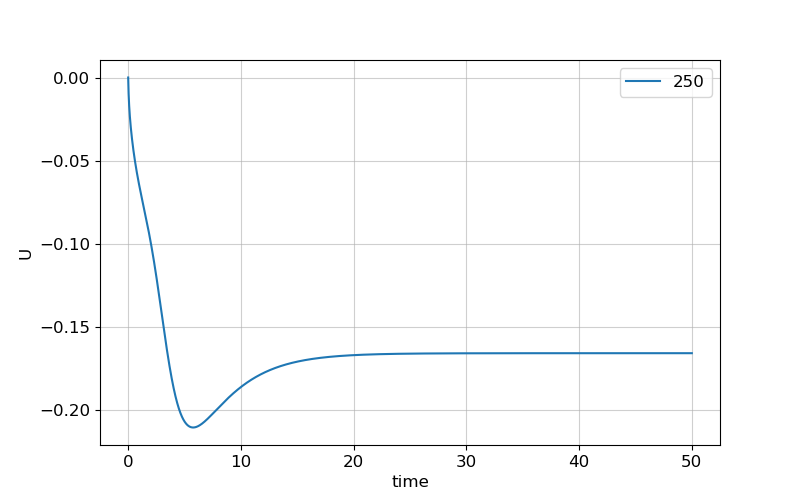
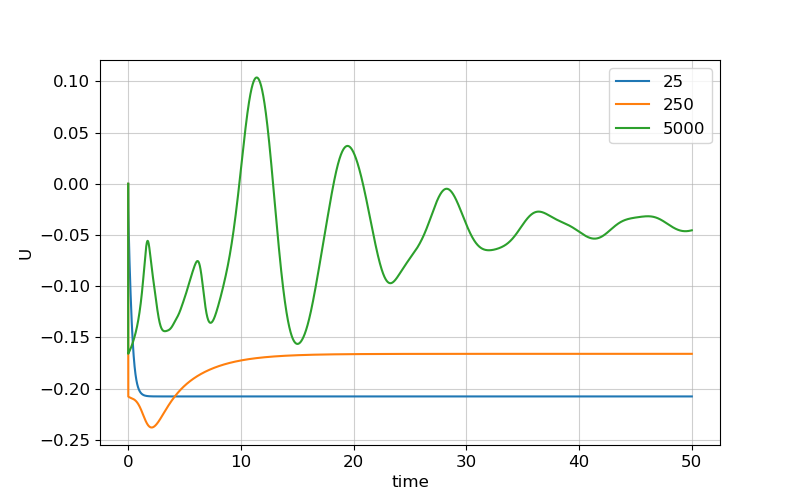
Added openfoam comparison

diff --git a/python/main.py b/python/main.py
@@ -22,16 +22,16 @@ pylab.rcParams.update(params)
 
 from DD import DD
 from avg import avg
-from src import tic, toc
+from src import tic, toc, extract
 
 #%% Simulation parameters
 
 anim = False  # Save animation
-
+compare_with_openfoam = True
 
 Pr = 0.71
 # Specify which Re cases to run:
-cases = [250]  #Re-number
+cases = [25,250,5000]  #Re-number
 # Ri = 0. 
 dt = 0.001
 Tf = 50
@@ -180,11 +180,44 @@ for i, Re in enumerate(cases):
     plt.title(f'Velocity at t={k*dt:.2f}, Re = {Re}, N = {Nx}')
     plt.savefig(f'velocity_RE{Re}.png')
 
-print(Ua.shape)
+    '''Compare with openfoam solution'''
+    if compare_with_openfoam:
+        list1 = ['A', 'B', 'C']
+        Uo, Vo = extract(list1[i])
+        vel_amp = np.sqrt(Ua**2+Va**2).T[:-1, :-1]
+        vel_amp_o = np.sqrt(Uo**2+Vo**2)[:-1, :-1]
+        #Print relative norm
+        rel_error = np.linalg.norm(vel_amp-vel_amp_o)/np.linalg.norm(vel_amp)
+        print(rel_error)
+
+        plt.figure()
+        normalizer = matplotlib.colors.Normalize(0,0.7)
+        plt.contourf(x,y,np.sqrt(Uo**2+Vo**2),20,norm = normalizer, cmap = "inferno")
+        plt.quiver(x,y,Ua.T,Va.T,norm = normalizer, cmap = "inferno")
+        plt.gca().set_aspect(1.)
+        plt.colorbar(norm = normalizer, cmap = "inferno")
+        plt.title(f'Velocity at t={k*dt:.2f}, Re = {Re}, N = {Nx}')
+        plt.savefig(f'velocity_RE{Re}_OF.png')
+
+        # Over_line plot
+        line = np.diagonal(vel_amp)
+        line_OF = np.diagonal(vel_amp_o)
+
+        plt.figure()
+        plt.title(f"Plot over diagonal line, Re = {Re}")
+        plt.plot(line, label = "Python solution")
+        plt.plot(line_OF, label = "OpenFOAM solution")
+        plt.xlabel("diagonal index")
+        plt.ylabel("Velocity magnitude")
+        plt.legend()
+        plt.grid()
+        plt.savefig(f'overline_RE{Re}.png')
+        
 """
 """
 #%% Compute divergence on cell centres
 
+"""
 # compute divergence on cell centres
 div = (np.diff( np.vstack( (uW,U, uE)),axis=0)/hx + np.diff( np.hstack(( vS, V, vN)),axis=1)/hy)
 plt.figure()
@@ -194,6 +227,7 @@ plt.colorbar(norm = normalizer, cmap = "inferno")
 plt.title(f'Divergence at t={k*dt:.2f}, Re = {Re}, N = {Nx}')
 plt.savefig('divergence.png')
 plt.show()
+"""
 
 plt.figure()
 plt.plot(np.linspace(0,Tf,int(Tf/dt)+1), uvel)

diff --git a/python/src.py b/python/src.py
@@ -15,7 +15,7 @@ def toc():
 
 def extract(case = 'A'):
     # Open the file
-    with open('your_file_path.txt', 'r') as file:
+    with open(f'openfoam_files/50_{case}/U', 'r') as file:
         lines = file.readlines()
 
     # Find the index where the internalField starts
@@ -25,7 +25,7 @@ def extract(case = 'A'):
     num_vectors = int(lines[start_index + 1])
 
     # Extract the lines containing vectors
-    vector_lines = lines[start_index + 2:start_index + 2 + num_vectors]
+    vector_lines = lines[start_index + 2:start_index + 2 + num_vectors+1]
 
     # Initialize a list to store valid vectors
     valid_vectors = []
@@ -37,7 +37,16 @@ def extract(case = 'A'):
             valid_vectors.append(vector)
 
     # Convert the list of valid vectors into a NumPy array
+    
     vectors = np.array(valid_vectors)
 
-    # Print the extracted vectors
-    print(vectors)
+    matrixsize = int(np.sqrt(len(vectors[:,0])))
+    U = vectors[:,0].reshape((matrixsize, matrixsize))
+    V = vectors[:,1].reshape((matrixsize, matrixsize))
+
+    return U,V
+
+if __name__ == '__main__':
+    U, V =  extract('A')
+    print(U.shape)
+    print(V.shape)
